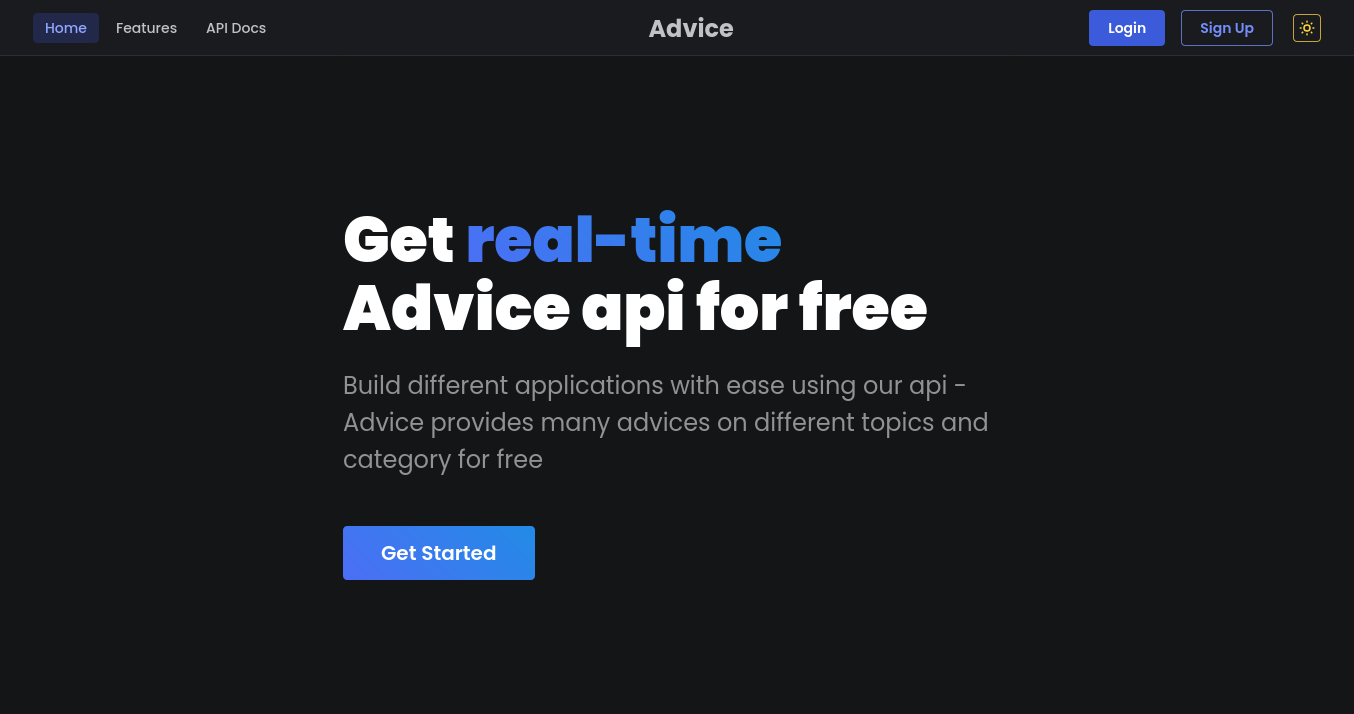
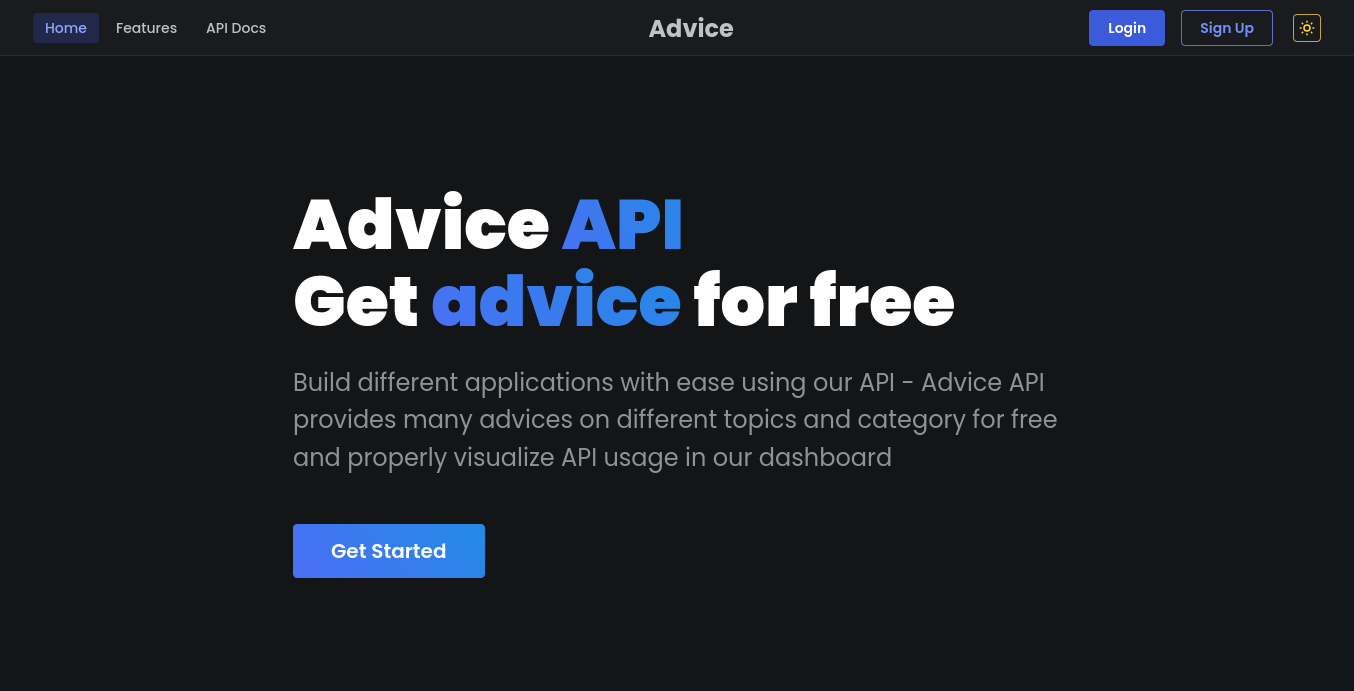
changed screenshot and hero title

diff --git a/components/Home/HeroTitle.js b/components/Home/HeroTitle.js
@@ -20,7 +20,7 @@ const useStyles = createStyles((theme) => ({
 
   inner: {
     position: "relative",
-    paddingTop: 150,
+    paddingTop: 130,
     paddingBottom: 120,
 
     [BREAKPOINT]: {
@@ -31,7 +31,7 @@ const useStyles = createStyles((theme) => ({
 
   title: {
     fontFamily: `Greycliff CF, ${theme.fontFamily}`,
-    fontSize: 62,
+    fontSize: 70,
     fontWeight: 900,
     lineHeight: 1.1,
     margin: 0,
@@ -99,8 +99,16 @@ export default function HeroTitle() {
 
   return (
     <div className={classes.wrapper}>
-      <Container size={700} className={classes.inner}>
+      <Container size={800} className={classes.inner}>
         <h1 className={classes.title}>
+          Advice <Text
+            component="span"
+            variant="gradient"
+            gradient={{ from: "indigo", to: "blue" }}
+            inherit
+          >
+            API
+          </Text><br />
           Get{" "}
           <Text
             component="span"
@@ -108,14 +116,13 @@ export default function HeroTitle() {
             gradient={{ from: "indigo", to: "blue" }}
             inherit
           >
-            real-time
-          </Text>{" "}
-          Advice api for free
+            advice
+          </Text> for free
         </h1>
 
         <Text className={classes.description} color="dimmed">
-          Build different applications with ease using our api - Advice provides
-          many advices on different topics and category for free
+          Build different applications with ease using our API - Advice API provides
+          many advices on different topics and category for free and properly visualize API usage in our dashboard
         </Text>
 
         <Group className={classes.controls}>
